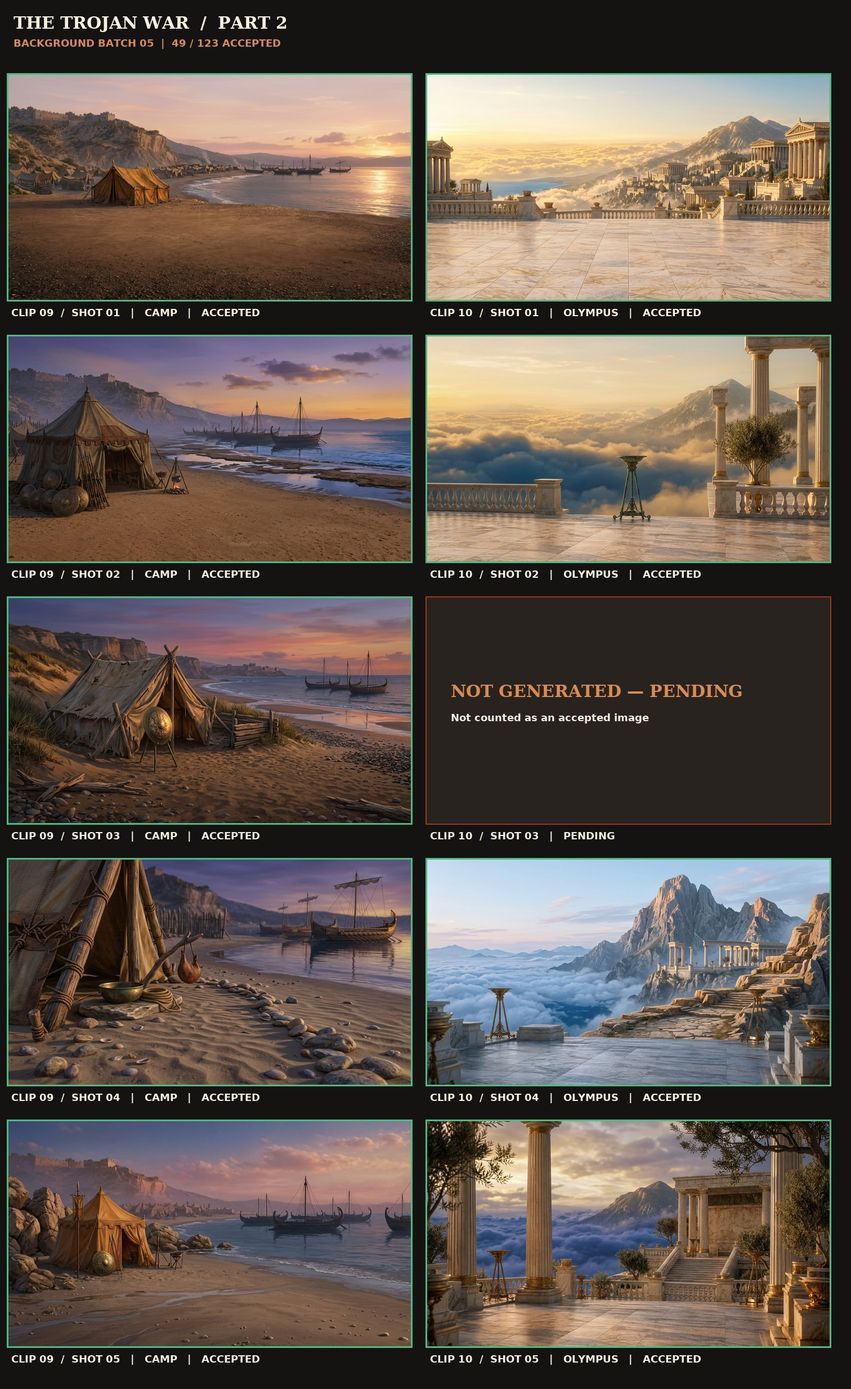
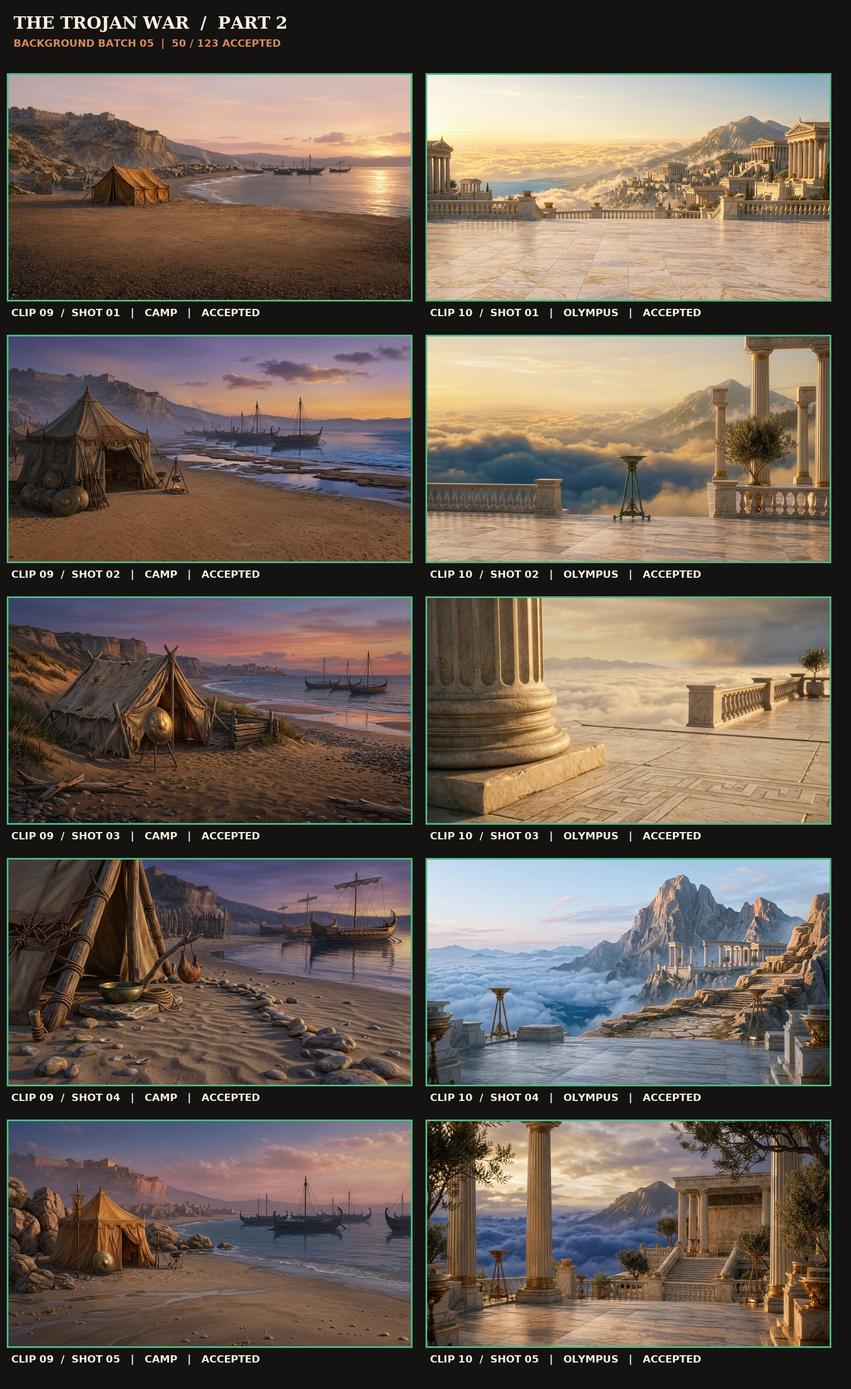
Complete Part 2 background batch 05 reroll

Changed region(s): [[0.4974, 0.4054, 0.9947, 0.6237]]

diff --git a/production/STATUS.md b/production/STATUS.md
@@ -4,7 +4,7 @@
 **Recovered checkpoint:** `origin/arena/01a1032c-yt-2` at `774100f` (2026-10-04); accepted assets and recorded approvals are reused, not regenerated.
 **Locked script source:** `production/script_approved.txt` remains byte-identical to the supplied script; the separate retention draft is not the VO source. By explicit user approval, three non-graphic wording substitutions are permitted for Part 2 Chapter 7 narrator audio only; they are documented in `production/part2/chapter7_vo_override.json` and do not alter the locked source file.
 **Part 1 status:** Complete — 125/125 accepted plates, all 25 clips assembled, rendered, and QC-passed. The full export and QC reports are saved under `production/part1/`; the approved preview is unchanged.
-**Part 2 status:** VO and motion plan complete (24 measured clips / 123 unique plate slots). The five new character sheets were approved by the user with “continue” on 2026-10-05; all five static cutouts and face anchors pass visual QC. Background batches 01–04 are complete; batch 05 is in progress with one reroll pending: 49/123 plates accepted, 74 pending.
+**Part 2 status:** VO and motion plan complete (24 measured clips / 123 unique plate slots). The five new character sheets were approved by the user with “continue” on 2026-10-05; all five static cutouts and face anchors pass visual QC. Background batches 01–05 are complete: 50/123 plates accepted, 73 pending (batch 05 included one corrective reroll).
 ## Current session — 2026-10-05
 - Added a separate complete-Part-1 renderer at `tools/render_part1.py` (all 25 clips, animated 2.5-second opening title and Part II tease). It writes `production/part1/part1_full.mp4` and does not overwrite the approved clip 01 + 05 preview.
 - Added exact per-clip VO sample trimming/padding against the locked timeline, frame-rounding audio tail compensation, a bounded background cache, and a music fade on the teaser card. Approved script text and VO segment records remain untouched.
@@ -14,13 +14,13 @@
 - Locked script, VO segments, accepted assets and approved preview were preserved. Part 1 is delivered; Step 7–8 remains open for Parts 2–4 and the master MP4.
 - Part 2 narrator batch: after exact-text synthesis was blocked, the user approved three non-graphic Chapter 7 narrator-only substitutions; the locked source script remains unchanged. The missing raw narration was generated with selected voice `voice-00`: 222 words, 88.23s decoded, 151 WPM. Raw-audio QC/hash metadata: `production/part2/p2_narr_c7_manifest.json`; override: `production/part2/chapter7_vo_override.json`.
 - Part 2 per-clip VO is complete: 24 clips, 776 words, 364.60s (6.08 min), 127.7 WPM average. All 8 raw batches map to the source lines, the approved VO override is applied, pace gates pass, and audio QC manifests are in `production/part2/part2_vo_manifest.json` and `part2_vo_qc_report.txt`/`.json`.
-- Part 2 motion plan is complete and appended to `production/scenes.json` without changing the approved Part 1 plan. `production/part2/background_manifest.json` records 123 unique plates: 49 accepted and 74 pending. Twenty-three clips use five shots; `p2_clip_16` (23.678s / 50 words) uses eight (~2.96s per shot) for Preset A density. New dialogue/supporting character assignments, timed events, labels/callouts, camera moves, and text-free HYBRID prompts are included. See `production/part2/part2_scene_plan_notes.md`.
+- Part 2 motion plan is complete and appended to `production/scenes.json` without changing the approved Part 1 plan. `production/part2/background_manifest.json` records 123 unique plates: 50 accepted and 73 pending. Twenty-three clips use five shots; `p2_clip_16` (23.678s / 50 words) uses eight (~2.96s per shot) for Preset A density. New dialogue/supporting character assignments, timed events, labels/callouts, camera moves, and text-free HYBRID prompts are included. See `production/part2/part2_scene_plan_notes.md`.
 - Step 3 character-sheet gate cleared: the user approved all five new static designs (“continue”, 2026-10-05): Protesilaus, Philoctetes, Chryses, Patroclus, and Andromache holding Astyanax. Transparent cutouts are saved as `production/assets/rigs/cutout_{protesilaus,philoctetes,chryses,patroclus,andromache_astyanax}.png`; face anchors were appended to `char_anchors.json`, and speaker mappings were added to `tools/assemble.py`. Matte/anchor review: `production/part2/character_sheets/part2_cutout_calibration.jpg`; processor and hashes are recorded in the character-sheet manifest.
 - Background batch 01: 10/10 plates for clips 01–02 individually viewed and accepted (0 rerolls); see `production/part2/backgrounds_batch_01_contact.jpg` and `backgrounds_batch_01_QC.md`.
 - Background batch 02: 10/10 plates for clips 03–04 individually viewed and accepted (0 rerolls); see `production/part2/backgrounds_batch_02_contact.jpg` and `backgrounds_batch_02_QC.md`.
 - Background batch 03: 10/10 plates for clips 05–06 individually viewed and accepted (0 rerolls). At that checkpoint, the total was 30/123 accepted, 93 pending. Contact sheet and QC: `production/part2/backgrounds_batch_03_contact.jpg` and `backgrounds_batch_03_QC.md`.
 - Background batch 04: clips 07–08 complete; 10/10 plates individually viewed and accepted, with no rerolls. At that checkpoint: 40/123 accepted, 83 pending. Contact sheet and QC: `production/part2/backgrounds_batch_04_contact.jpg` and `backgrounds_batch_04_QC.md`.
-- Background batch 05: clips 09–10 reviewed; 9/10 candidates passed. The Olympus detail candidate (`p2_clip_10` shot 03) was rejected for a modern-looking metal drainage grate and text-like ornament, removed, and left pending a reroll. Current total: 49/123 accepted, 74 pending. Contact sheet and QC: `production/part2/backgrounds_batch_05_contact.jpg` and `backgrounds_batch_05_QC.md`. Next: reroll clip 10 shot 03 using the revised manifest prompt, then batch 06 clips 11–12.
+- Background batch 05: clips 09–10 complete; all 10 plates individually reviewed and accepted after one corrective reroll. The first Olympus detail candidate (`p2_clip_10` shot 03) was rejected for a modern-looking grate and text-like ornament; its corrected, grate-free prompt produced the accepted replacement. Current total: 50/123 accepted, 73 pending. Contact sheet and QC: `production/part2/backgrounds_batch_05_contact.jpg` and `backgrounds_batch_05_QC.md`. Next: batch 06, clips 11–12.
 
 **Format:** 16:9 (1920×1080) · **Target Pace:** ~130 wpm · **Parts:** 4 parts (~23.40 min total, 92 clips)
 **Style Mode:** `HYBRID` (2D cartoon rigged characters + AI-generated painterly-realistic Bronze Age environments, no people/text in backgrounds)

diff --git a/production/part2/backgrounds_batch_05_QC.md b/production/part2/backgrounds_batch_05_QC.md
@@ -1,8 +1,8 @@
 # Part 2 Background Batch 05 — QC
 
-**Scope:** clips 09–10 · secluded Greek-camp shore and mythic Mount Olympus · 9/10 plates individually reviewed and accepted; one generated Olympus detail candidate was rejected and remains pending a reroll.
-**Checks:** approved `loc_camp` and `loc_olympus` references and HYBRID look; varied compositions; accepted plates screened for people, silhouettes, readable text, logos, watermarks and modern objects; open staging ground; full image decode and accepted 16:9 tolerance; accepted-image dimensions and SHA-256 recorded in `background_manifest.json`.
-**Result:** PARTIAL PASS — 9 accepted, 1 rejected candidate withheld; no corrective reroll this batch. Part 2 total: 49/123 accepted, 74 pending. The rejected `p2_clip_10` shot 03 candidate contained a modern-looking metal drainage grate with text-like ornament. It was removed and is not accepted. A grate-free, text-free prompt is recorded in the manifest and scene plan for the next generation pass. No script, VO or measured scene timing was changed.
+**Scope:** clips 09–10 · secluded Greek-camp shore and mythic Mount Olympus · all 10 planned plates individually reviewed and accepted; the Olympus terrace detail passed after one corrective reroll.
+**Checks:** approved `loc_camp` and `loc_olympus` references and HYBRID look; varied compositions; no people, faces, silhouettes, bodies, readable text, logos, watermarks or modern objects in accepted plates; open staging ground; full image decode and accepted 16:9 tolerance; dimensions and SHA-256 recorded in `background_manifest.json`.
+**Result:** PASS — 10/10 accepted after one corrective reroll. The first `p2_clip_10` shot 03 candidate was rejected for a modern-looking metal drainage grate and text-like ornament, then excluded. Its revised grate-free, text-free prompt produced a period-consistent marble terrace detail. Part 2 total: 50/123 accepted, 73 pending. No script, VO or measured scene timing was changed.
 
 | Clip / shot | Setting / view | Dimensions | QC result |
 |---|---|---:|---|
@@ -13,8 +13,8 @@
 | `p2_clip_09` / 05 | Secluded Greek-camp shore / reverse wide | 1376×768 | PASS — quiet beach camp and fleet in soft evening light; broad open shore, no people or text. |
 | `p2_clip_10` / 01 | Mount Olympus / establishing terrace | 1376×768 | PASS — marble terrace above a sea of clouds, mountain and distant sanctuaries under warm light; open foreground, no figures or text. |
 | `p2_clip_10` / 02 | Mount Olympus / medium terrace | 1376×768 | PASS — marble terrace, unoccupied bronze tripod bowl, olive tree and cloud-wrapped mountain; no figures, text or modern objects. |
-| `p2_clip_10` / 03 | Mount Olympus / terrace detail | — | REJECTED — first candidate introduced a modern-looking metal drainage grate and text-like ornament. Candidate removed; slot remains pending. Reroll with the revised prompt recorded in the manifest. |
+| `p2_clip_10` / 03 | Mount Olympus / terrace detail | 1376×768 | PASS after reroll — weathered marble column base, simple geometric floor inlay and cloud sea; no metal fixture, figures or text-like marks. |
 | `p2_clip_10` / 04 | Mount Olympus / reverse wide terrace | 1365×768 | PASS — ancient stone steps and terrace against the cloud-veiled mountain; open marble foreground, no figures or text. |
 | `p2_clip_10` / 05 | Mount Olympus / raised three-quarter terrace | 1376×768 | PASS — columns, olive trees and Olympus above clouds in warm evening light; open floor, no figures or text. |
 
-Review contact sheet: `production/part2/backgrounds_batch_05_contact.jpg` (rejected slot explicitly shown as pending).
+Review contact sheet: `production/part2/backgrounds_batch_05_contact.jpg`.

diff --git a/production/part2/part2_scene_plan_notes.md b/production/part2/part2_scene_plan_notes.md
@@ -12,4 +12,4 @@
 
 ## Approval / production gate
 
-The user approved all five new static character-sheet designs with “continue” on 2026-10-05; the approval record and labelled 14-character review grid are under `production/part2/character_sheets/`. Step 3 is cleared. Five border-matted transparent cutouts and dialogue face anchors are QC-passed; their sources, hashes and calibration preview are recorded in the character-sheet manifest. Background batches 01–04 are complete; batch 05 has 9/10 plates accepted and one Olympus detail reroll pending (49/123 accepted, 74 pending). Batch 01 covers clips 01–02; batch 02 covers clips 03–04; batch 03 covers clips 05–06; batch 04 covers clips 07–08; batch 05 covers clips 09–10. Their review contact sheets and checklists are `production/part2/backgrounds_batch_01_contact.jpg` / `backgrounds_batch_01_QC.md`, `production/part2/backgrounds_batch_02_contact.jpg` / `backgrounds_batch_02_QC.md`, `production/part2/backgrounds_batch_03_contact.jpg` / `backgrounds_batch_03_QC.md`, `production/part2/backgrounds_batch_04_contact.jpg` / `backgrounds_batch_04_QC.md`, and `production/part2/backgrounds_batch_05_contact.jpg` / `backgrounds_batch_05_QC.md`. The rejected `p2_clip_10` shot 03 candidate is excluded; its corrected, text-free prompt is recorded in both `background_manifest.json` and `scenes.json` for the next generation pass. Each generated plate still requires individual visual review before it is recorded as accepted.
+The user approved all five new static character-sheet designs with “continue” on 2026-10-05; the approval record and labelled 14-character review grid are under `production/part2/character_sheets/`. Step 3 is cleared. Five border-matted transparent cutouts and dialogue face anchors are QC-passed; their sources, hashes and calibration preview are recorded in the character-sheet manifest. Background batches 01–05 are complete: 50/123 plates accepted, 73 pending; batch 05 includes one accepted corrective reroll. Batch 01 covers clips 01–02; batch 02 covers clips 03–04; batch 03 covers clips 05–06; batch 04 covers clips 07–08; batch 05 covers clips 09–10. Their review contact sheets and checklists are `production/part2/backgrounds_batch_01_contact.jpg` / `backgrounds_batch_01_QC.md`, `production/part2/backgrounds_batch_02_contact.jpg` / `backgrounds_batch_02_QC.md`, `production/part2/backgrounds_batch_03_contact.jpg` / `backgrounds_batch_03_QC.md`, `production/part2/backgrounds_batch_04_contact.jpg` / `backgrounds_batch_04_QC.md`, and `production/part2/backgrounds_batch_05_contact.jpg` / `backgrounds_batch_05_QC.md`. The initial `p2_clip_10` shot 03 candidate was rejected and excluded; a corrected, grate-free prompt was used for the accepted reroll and is recorded in both `background_manifest.json` and `scenes.json`. Each generated plate still requires individual visual review before it is recorded as accepted.
